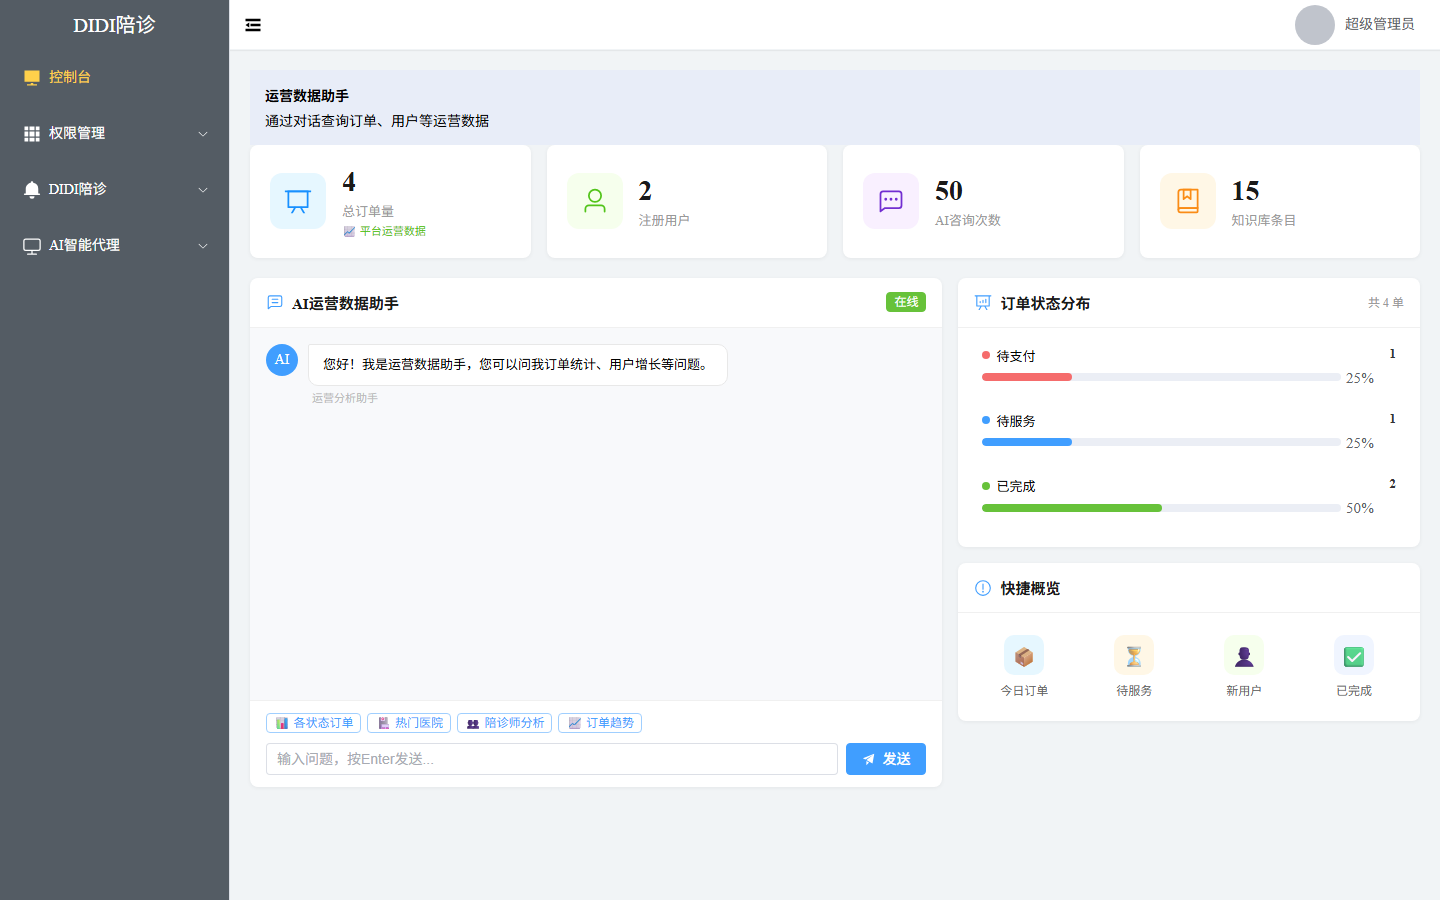
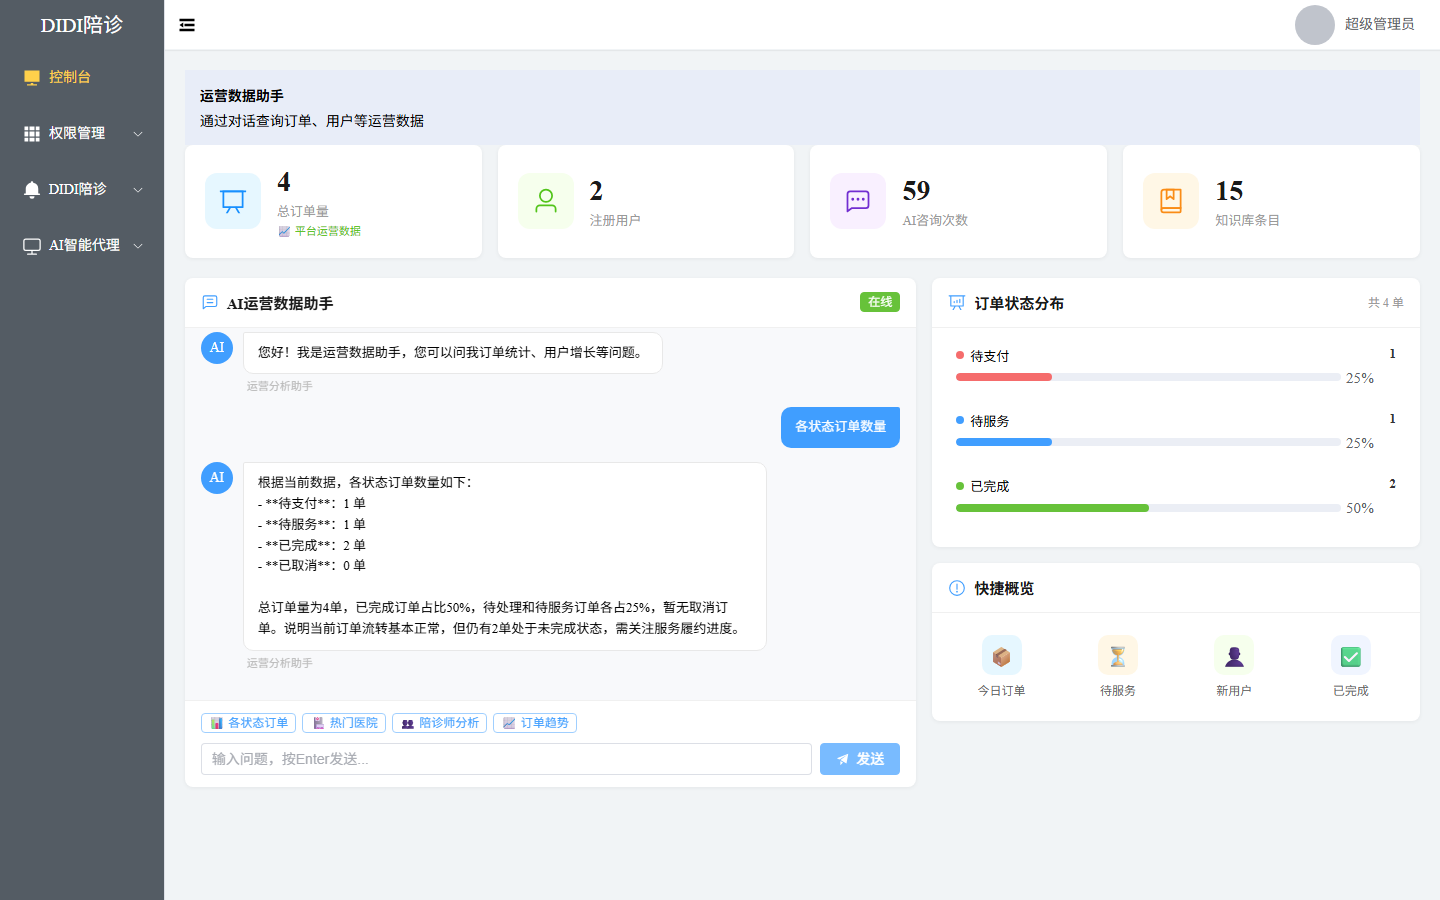
docs: 更新所有Agent功能真实使用截图
- H5: 首页/智能分诊输入/分诊结果/AI客服聊天
- Admin: 控制台/运营数据助手/FAQ知识库/订单管理
- 所有截图均为实际使用场景

diff --git a/README.md b/README.md
@@ -4,15 +4,15 @@
 
 ## 📸 功能截图
 
-### 📱 H5 移动端
+### 📱 H5 移动端（用户端）
 
-| 首页 | 智能分诊(输入症状) | 分诊结果(科室推荐) | AI客服聊天 |
+| 🏠 首页（城市定位+天气+AI分诊+医院列表） | 🤖 智能分诊（填写症状） | 📋 分诊推荐结果（科室+医院+陪诊师） | 💬 AI客服对话（自动问答） |
 |------|-------------------|-------------------|-----------|
 | ![H5首页](screenshots/h5-home.png) | ![分诊输入](screenshots/h5-triage-input.png) | ![分诊结果](screenshots/h5-triage-result.png) | ![聊天](screenshots/h5-chat.png) |
 
-### 🖥 后台管理
+### 🖥 后台管理（管理员端）
 
-| 控制台 | 运营数据助手 | FAQ知识库 | 订单管理 |
+| 📊 控制台（业务总览） | 🤖 运营数据助手（AI对话查数据） | 📚 FAQ知识库（问题管理） | 📦 订单管理（状态筛选） |
 |--------|------------|----------|---------|
 | ![控制台](screenshots/admin-dashboard.png) | ![运营数据助手](screenshots/admin-agent-overview.png) | ![FAQ](screenshots/admin-faq.png) | ![订单管理](screenshots/admin-order.png) |
 
